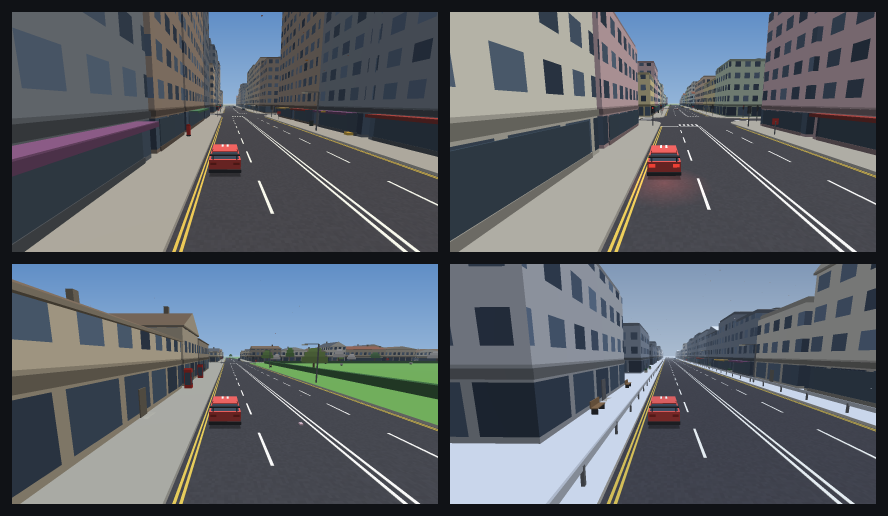
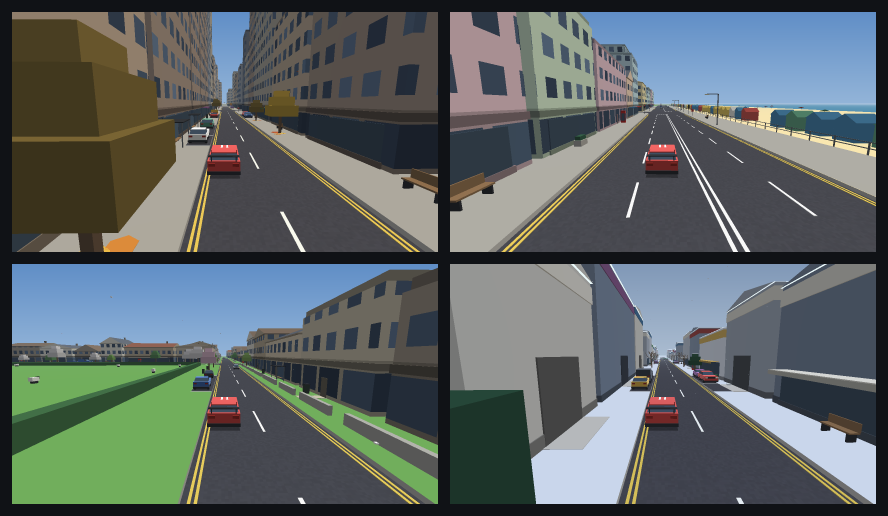
feat(game): sheds, verges and trees that look like trees
The motorway town's buildings were the city's in grey. They are sheds
now: blank cladding with a band of colour round the top, a shallow
roof, and a roller door where there is no shop.

The village had the city's pavements. It has grass to the kerb
instead, and each house a front garden behind a stone wall with a
path to the door, which is what makes a lane of a street.

A bare tree ran its boughs out level and looked like a telegraph
pole. They climb away from the trunk now, three to a tier, each
ending in a twig.

The sheet of maps in the README puts the car where each place looks
most like itself: on the front at the seaside, and otherwise on the
nearest street with cars parked along it, where the trees are.

diff --git a/internal/game/dressing.go b/internal/game/dressing.go
@@ -51,6 +51,13 @@ type townLook struct {
 	// pitched is the share of low buildings with a pitched roof rather than
 	// a flat one.
 	pitched float32
+	// sheds makes every building a shed: blank walls with a band of colour
+	// round the top and a shallow roof, a roller door where it is not a
+	// shop. It is what stands beside a dual carriageway.
+	sheds bool
+	// verges puts grass where the pavement would be, and gives each house a
+	// front garden behind a wall. It is what makes a lane of a street.
+	verges bool
 }
 
 // townFor returns how a map's buildings are finished.
@@ -59,9 +66,9 @@ func townFor(m city.Map) townLook {
 	case city.MapSeaside:
 		return townLook{facades: &seasideShades, shops: 0.6, pitched: 0.6}
 	case city.MapVillage:
-		return townLook{facades: &villageShades, shops: 0.22, pitched: 0.9}
+		return townLook{facades: &villageShades, shops: 0.22, pitched: 0.9, verges: true}
 	case city.MapMotorway:
-		return townLook{facades: &shedShades, shops: 0.5, pitched: 0.12}
+		return townLook{facades: &shedShades, shops: 0.4, sheds: true}
 	}
 	return townLook{facades: &buildingShades, shops: 1, pitched: 0.6}
 }
@@ -107,6 +114,10 @@ func drawBuilding(b city.Building, town townLook, night float32, snow bool) {
 	shade := town.facades[int(b.Shade)%len(town.facades)]
 	h := scatter(b.Center.X, b.Center.Z, 11)
 	x, z, top := b.Center.X, b.Center.Z, b.Height
+	if town.sheds {
+		drawShed(b, town, shade, h, night, snow)
+		return
+	}
 
 	// The walls are marked as a façade, which is what tells the shader to
 	// put windows in them.
@@ -162,6 +173,27 @@ func drawBuilding(b city.Building, town townLook, night float32, snow bool) {
 	drawFront(b, town, shade, h, night)
 }
 
+// shedRise is how far the roof of a shed climbs to its ridge, in metres: a
+// good deal less than a house's.
+const shedRise float32 = 1.1
+
+// drawShed draws a building as a shed: blank walls, a band of colour round
+// the top where the name would go, and a shallow roof over the lot.
+func drawShed(b city.Building, town townLook, shade rl.Color, h [3]float32, night float32, snow bool) {
+	x, z, top := b.Center.X, b.Center.Z, b.Height
+	rl.DrawCube(vec3(x, top/2, z), b.W, top, b.D, shade)
+	band := awningShades[int(h[0]*97)%len(awningShades)]
+	rl.DrawCube(vec3(x, top-0.9, z), b.W*1.01, 1.2, b.D*1.01, band)
+	// A plinth, darker than the cladding above it.
+	rl.DrawCube(vec3(x, 0.4, z), b.W*1.006, 0.8, b.D*1.006, scaleColor(shade, 0.6))
+	tin := scaleColor(shade, 0.78)
+	if snow {
+		tin = colSnow
+	}
+	gable(b.Center, b.W*1.02, b.D*1.02, top, shedRise, tin, shade)
+	drawFront(b, town, shade, h, night)
+}
+
 // gable draws a pitched roof over a w by d rectangle centred on c: two slopes
 // rising from height y to a ridge along the longer side, and a triangle of
 // wall closing each end.
@@ -214,53 +246,98 @@ func gable(c mathx.Vec, w, d, y, rise float32, roof, wall rl.Color) {
 func shopHasAwning(h [3]float32) bool  { return h[1] < 0.55 }
 func shopLitAtNight(h [3]float32) bool { return h[2] < 0.65 }
 
+// A front garden, in metres: how far the wall stands from the house, and
+// the gap in it for the path.
+const (
+	gardenDepth float32 = 2.6
+	gardenGate  float32 = 1.6
+)
+
 // isShop decides whether a building is a shop or somebody's house, from
 // where it stands and how much of the place is shops.
 func isShop(b city.Building, town townLook) bool {
 	return scatter(b.Center.X, b.Center.Z, 17)[0] < town.shops
 }
 
-// drawFront dresses the side of a building that faces its street. A shop has
-// its ground floor glazed, and an awning over some; a house has a front door.
-func drawFront(b city.Building, town townLook, shade rl.Color, h [3]float32, night float32) {
+// frontage is the side of a building that faces its street: where the middle
+// of it is, which way it looks, and how wide it is.
+type frontage struct {
+	at, out mathx.Vec
+	face    float32
+}
+
+// frontOf returns a building's frontage, and whether it has one.
+func frontOf(b city.Building) (frontage, bool) {
 	f := b.Front
 	if f.X == 0 && f.Z == 0 {
-		return
+		return frontage{}, false
 	}
-	// face is how wide the front is, and reach how far it is from the centre.
 	face, reach := b.W, b.D/2
 	if f.X != 0 {
 		face, reach = b.D, b.W/2
 	}
-	at := b.Center.Add(f.Mul(reach))
-	// slab stands a flat piece against the front: out from the wall, at a
-	// height, so thick, so tall and so wide.
-	slab := func(out, y, thick, tall, wide float32, col rl.Color) {
-		p := at.Add(f.Mul(out))
-		if f.X != 0 {
-			rl.DrawCube(vec3(p.X, y, p.Z), thick, tall, wide, col)
-			return
-		}
-		rl.DrawCube(vec3(p.X, y, p.Z), wide, tall, thick, col)
-	}
+	return frontage{at: b.Center.Add(f.Mul(reach)), out: f, face: face}, true
+}
 
-	if !isShop(b, town) {
-		slab(0.03, 1.05, 0.08, 2.1, 1.0, scaleColor(shade, 0.5))
-		slab(0.3, 0.09, 0.6, 0.18, 1.5, colStone)
+// slab stands a flat piece against the front: so far out from the wall and
+// along it, at a height, so thick, so tall and so wide.
+func (fr frontage) slab(out, along, y, thick, tall, wide float32, col rl.Color) {
+	p := fr.at.Add(fr.out.Mul(out)).Add(fr.out.Right().Mul(along))
+	if fr.out.X != 0 {
+		rl.DrawCube(vec3(p.X, y, p.Z), thick, tall, wide, col)
 		return
 	}
+	rl.DrawCube(vec3(p.X, y, p.Z), wide, tall, thick, col)
+}
 
+// drawFront dresses the side of a building that faces its street: a shop
+// front, the door of a house, or the roller door of a shed.
+func drawFront(b city.Building, town townLook, shade rl.Color, h [3]float32, night float32) {
+	fr, ok := frontOf(b)
+	if !ok {
+		return
+	}
+	switch {
+	case isShop(b, town):
+		fr.drawShop(shade, h, night)
+	case town.sheds:
+		// A roller door, with a ramp up to it.
+		door := min(fr.face*0.4, 5)
+		fr.slab(0.03, 0, 2.1, 0.08, 4.2, door, scaleColor(shade, 0.45))
+		fr.slab(0.9, 0, 0.1, 1.8, 0.2, door*1.1, colKerb)
+	default:
+		fr.drawHouse(shade, town.verges)
+	}
+}
+
+// drawShop glazes the ground floor, and hangs an awning over some.
+func (fr frontage) drawShop(shade rl.Color, h [3]float32, night float32) {
 	glass := scaleColor(colGlass, 0.7)
 	if night > 0.35 && shopLitAtNight(h) {
 		glass = as(colShopLit, matGlow)
 	}
-	slab(0.03, 1.8, 0.1, 2.4, face*0.84, glass)
-	slab(0.05, 0.3, 0.14, 0.6, face*0.86, scaleColor(shade, 0.6))
+	fr.slab(0.03, 0, 1.8, 0.1, 2.4, fr.face*0.84, glass)
+	fr.slab(0.05, 0, 0.3, 0.14, 0.6, fr.face*0.86, scaleColor(shade, 0.6))
 	if shopHasAwning(h) {
 		cloth := awningShades[int(h[0]*97)%len(awningShades)]
-		slab(0.7, 3.12, 1.4, 0.1, face*0.8, cloth)
-		slab(1.38, 2.97, 0.05, 0.3, face*0.8, scaleColor(cloth, 0.8))
+		fr.slab(0.7, 0, 3.12, 1.4, 0.1, fr.face*0.8, cloth)
+		fr.slab(1.38, 0, 2.97, 0.05, 0.3, fr.face*0.8, scaleColor(cloth, 0.8))
 	}
+}
+
+// drawHouse gives a house its front door and step, and with a garden, a
+// wall along the front of it broken for the path to the door.
+func (fr frontage) drawHouse(shade rl.Color, garden bool) {
+	fr.slab(0.03, 0, 1.05, 0.08, 2.1, 1.0, scaleColor(shade, 0.5))
+	fr.slab(0.3, 0, 0.09, 0.6, 0.18, 1.5, colStone)
+	if !garden {
+		return
+	}
+	wall := (fr.face*0.96 - gardenGate) / 2
+	for _, side := range [2]float32{-1, 1} {
+		fr.slab(gardenDepth, side*(gardenGate+wall)/2, city.KerbHeight+0.35, 0.3, 0.7, wall, colStone)
+	}
+	fr.slab(gardenDepth/2, 0, city.KerbHeight+0.012, gardenDepth, 0.02, gardenGate*0.7, colPath)
 }
 
 // furnitureKind is one of the things that stand on a pavement.

diff --git a/internal/game/season.go b/internal/game/season.go
@@ -180,20 +180,7 @@ func (lk seasonLook) drawTree(t tree, ground float32) {
 	crown := t.height - trunk
 	y := ground + trunk
 	if state == treeBare {
-		// The trunk carries on up, with a few boughs off it.
-		rl.DrawCube(vec3(t.at.X, y+crown*0.4, t.at.Z), 0.2, crown*0.8, 0.2, colTrunk)
-		for i, up := range [3]float32{0.25, 0.48, 0.68} {
-			reach := t.spread * (1.5 - 0.4*float32(i))
-			if i%2 == 0 {
-				rl.DrawCube(vec3(t.at.X, y+crown*up, t.at.Z), reach, 0.12, 0.12, colTrunk)
-			} else {
-				rl.DrawCube(vec3(t.at.X, y+crown*up, t.at.Z), 0.12, 0.12, reach, colTrunk)
-			}
-			if lk.snow {
-				rl.DrawCube(vec3(t.at.X, y+crown*up+0.09, t.at.Z),
-					max(reach*float32((i+1)%2), 0.14), 0.06, max(reach*float32(i%2), 0.14), colSnow)
-			}
-		}
+		lk.drawBareCrown(t, y, crown)
 		return
 	}
 	// Three stacked blocks, shrinking toward the top.
@@ -215,6 +202,40 @@ func (lk seasonLook) drawTree(t tree, ground float32) {
 // has reserved.
 func crownShade(leaf rl.Color, tier int) rl.Color {
 	return scaleColor(leaf, min(0.8+0.1*float32(tier), 1))
+}
+
+// Bare boughs, in degrees: how steeply a bough climbs away from the trunk,
+// and how much more steeply the twig off the end of it does.
+const (
+	boughRise float32 = 38
+	twigRise  float32 = 30
+)
+
+// drawBareCrown draws a tree with no leaves on it: the trunk carrying on up
+// to a point, with boughs off it on every side that climb as they go and
+// shorten toward the top, each ending in a twig. Boughs that run out level
+// make a telegraph pole; it is the climbing that makes it a tree.
+func (lk seasonLook) drawBareCrown(t tree, y, crown float32) {
+	rl.DrawCube(vec3(t.at.X, y+crown*0.42, t.at.Z), 0.2, crown*0.84, 0.2, colTrunk)
+	turn := scatter(t.at.X, t.at.Z, 9)[0] * 360
+	for tier, up := range [3]float32{0.08, 0.34, 0.58} {
+		reach := t.spread * (1.2 - 0.3*float32(tier))
+		for k := range 3 {
+			rl.PushMatrix()
+			rl.Translatef(t.at.X, y+crown*up, t.at.Z)
+			// Three boughs to a tier, each tier turned against the last.
+			rl.Rotatef(turn+float32(k)*120+float32(tier)*55, 0, 1, 0)
+			rl.Rotatef(boughRise, 0, 0, 1)
+			rl.DrawCube(vec3(reach/2, 0, 0), reach, 0.12, 0.12, colTrunk)
+			if lk.snow {
+				rl.DrawCube(vec3(reach/2, 0.08, 0), reach*0.9, 0.05, 0.13, colSnow)
+			}
+			rl.Translatef(reach, 0, 0)
+			rl.Rotatef(twigRise, 0, 0, 1)
+			rl.DrawCube(vec3(reach*0.25, 0, 0), reach*0.5, 0.08, 0.08, colTrunk)
+			rl.PopMatrix()
+		}
+	}
 }
 
 // litterRange is how near the eye a tree has to be before the leaves under

diff --git a/tools/demogen/main.go b/tools/demogen/main.go
@@ -329,13 +329,47 @@ func sheetMaps(cfg config) error {
 			}
 			g.SetCameraMode(game.CameraChase)
 			g.ShowHUD(false)
-			settle(g, 260)
+			toVantage(g.World())
+			settle(g, 150)
 			cells = append(cells, demo.Downscale(g.Snapshot(), cfg.scale))
 		}
 		sheet := demo.Montage(cells, 2, 12, color.RGBA{R: 16, G: 18, B: 22, A: 255})
 		return writePNG(cfg.path("maps.png"), sheet)
 	})
 }
+
+// toVantage puts the car where a map looks most like itself, for a still. A
+// drive begins on a main road near the middle, which in most places is the
+// least telling street there is: the seaside's is inland, and the trees that
+// carry a season stand along the side streets. So the car is put on the
+// front where there is one, and otherwise on the nearest street with cars
+// parked along it. From there the autopilot drives on as it would anywhere.
+func toVantage(w *sim.World) {
+	c := w.City
+	at, found := w.Player.Pos, false
+	if front, _, ok := c.Shoreline(); ok {
+		at, found = mathx.V(at.X, front), true
+	} else {
+		for _, p := range c.Parked {
+			if !found || p.Pos.DistTo(w.Player.Pos) < at.DistTo(w.Player.Pos) {
+				at, found = p.Pos, true
+			}
+		}
+	}
+	if !found {
+		return
+	}
+	pr := c.Project(at)
+	if !pr.Valid {
+		return
+	}
+	// Short of the spot, so that it is in the frame rather than under the car.
+	w.Player.Place(pr.Lane.Point(max(pr.S-vantageBack, 2)), pr.Lane.Heading)
+	w.EnsureBuilt(w.Player.Pos)
+}
+
+// vantageBack is how far short of its vantage the car is put, in metres.
+const vantageBack float32 = 30
 
 func sheetCameras(cfg config) error {
 	// Shows one scene from each viewpoint.

diff --git a/internal/game/dressing_test.go b/internal/game/dressing_test.go
@@ -175,3 +175,20 @@ func TestSomeShopsHaveAwningsAndSomeAreLit(t *testing.T) {
 		t.Errorf("%d of %d shops are lit at night", lit, n)
 	}
 }
+
+func TestAFrontageIsTheSideFacingTheStreet(t *testing.T) {
+	b := city.Building{Center: mathx.V(10, 20), W: 12, D: 8, Front: mathx.V(0, -1)}
+	fr, ok := frontOf(b)
+	if !ok || fr.at != mathx.V(10, 16) || fr.face != 12 {
+		t.Errorf("a building facing down the grid fronts at %v, %.0f m wide, ok %v", fr.at, fr.face, ok)
+	}
+	b.Front = mathx.V(1, 0)
+	fr, ok = frontOf(b)
+	if !ok || fr.at != mathx.V(16, 20) || fr.face != 8 {
+		t.Errorf("a building facing along the grid fronts at %v, %.0f m wide, ok %v", fr.at, fr.face, ok)
+	}
+	b.Front = mathx.Vec{}
+	if _, ok := frontOf(b); ok {
+		t.Error("a building facing nowhere has a frontage")
+	}
+}

diff --git a/internal/game/coast_test.go b/internal/game/coast_test.go
@@ -93,6 +93,15 @@ func TestEveryMapIsFinishedItsOwnWay(t *testing.T) {
 			}
 		}
 	}
+	for _, m := range city.Maps() {
+		town := townFor(m)
+		if town.sheds != (m == city.MapMotorway) {
+			t.Errorf("%s: sheds = %v", m.Name(), town.sheds)
+		}
+		if town.verges != (m == city.MapVillage) {
+			t.Errorf("%s: verges = %v", m.Name(), town.verges)
+		}
+	}
 	if townFor(city.MapCity).shops != 1 {
 		t.Error("every building in the city should have a shop at its foot")
 	}

diff --git a/internal/game/render.go b/internal/game/render.go
@@ -204,6 +204,10 @@ func (g *Game) drawBlocks(eye mathx.Vec) {
 		// off for the junctions they face.
 		kerb := g.outline(i)
 		surface := g.look.pave
+		if g.town.verges {
+			// Grass to the kerb, and round the houses.
+			surface = g.look.park
+		}
 		field := fieldOf(b, g.opts.Map)
 		switch {
 		case b.Park:
